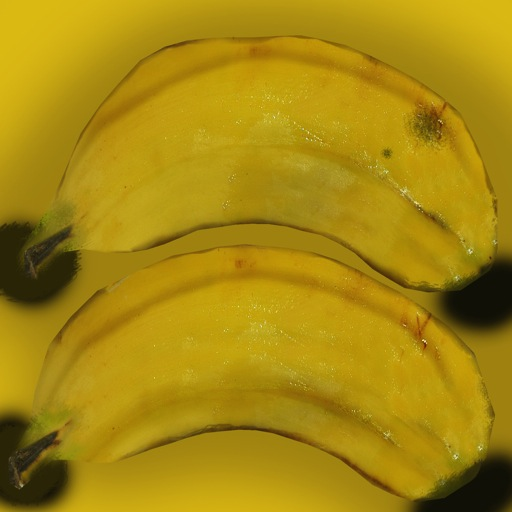
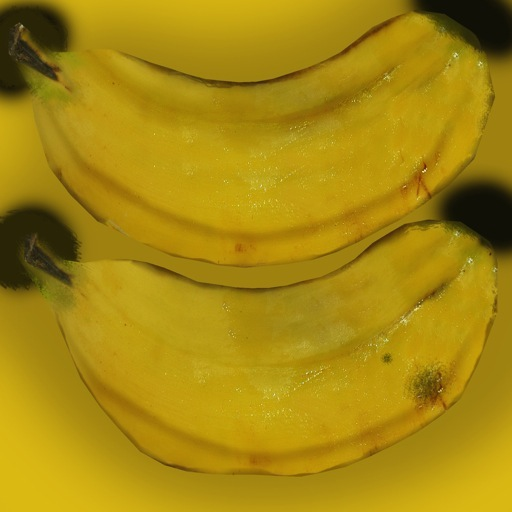
The teapot has been replaced by a banana. The texture mapping is working properly. The app is currently set up to display the banana for all three available image targets. banana180.jpg it the correct file to use as the texture map.

diff --git a/samples/ImageTargets/src/com/qualcomm/QCARSamples/ImageTargets/ImageTargets.java b/samples/ImageTargets/src/com/qualcomm/QCARSamples/ImageTargets/ImageTargets.java
@@ -292,14 +292,9 @@ public class ImageTargets extends Activity
     use for rendering. */
     private void loadTextures()
     {
-    	mTextures.add(Texture.loadTextureFromApk("banana.jpg", getAssets()));
     	mTextures.add(Texture.loadTextureFromApk("banana180.jpg", getAssets()));
-        mTextures.add(Texture.loadTextureFromApk("TextureTeapotBrass.png",
-                                                 getAssets()));
-        mTextures.add(Texture.loadTextureFromApk("TextureTeapotBlue.png",
-                                                 getAssets()));
-        mTextures.add(Texture.loadTextureFromApk("TextureTeapotRed.png",
-                getAssets()));        
+    	mTextures.add(Texture.loadTextureFromApk("banana180.jpg", getAssets()));
+    	mTextures.add(Texture.loadTextureFromApk("banana180.jpg", getAssets())); 
     }
     
     

diff --git a/samples/ImageTargets/jni/ImageTargets.cpp b/samples/ImageTargets/jni/ImageTargets.cpp
@@ -74,7 +74,7 @@ bool isActivityInPortraitMode   = false;
 QCAR::Matrix44F projectionMatrix;
 
 // Constants:
-static const float kObjectScale = 80.f;
+static const float kObjectScale = 120.f;
 
 QCAR::DataSet* dataSetStonesAndChips    = 0;
 QCAR::DataSet* dataSetTarmac            = 0;
